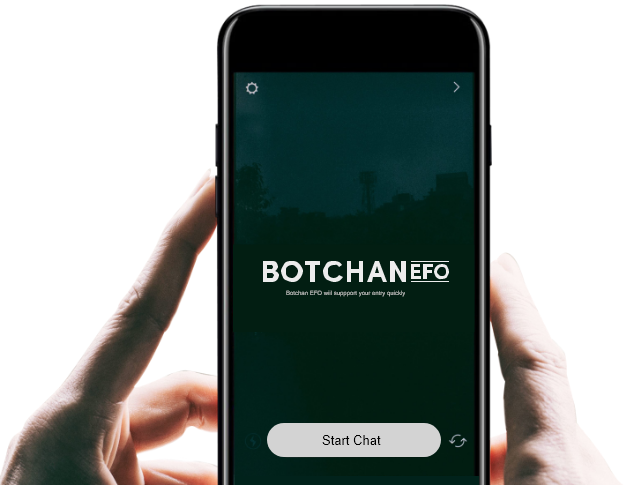
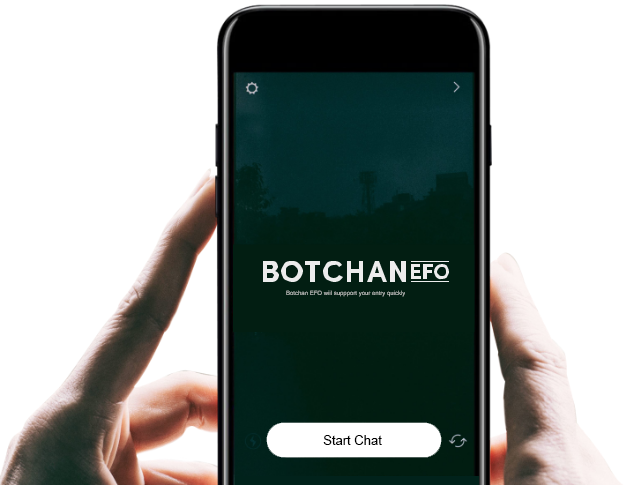
fix

Changed region(s): [[0.4249, 0.866, 0.7284, 0.9588]]

diff --git a/js/custom.js b/js/custom.js
@@ -23,6 +23,24 @@ $(function(){
     $('#header .mobile_demo_box .start_chat_btn').on('click', function () {
         var iframe_chat = '<iframe class="wc-webchat" id="wc-webchat-main" src="' + efo_server + '/efo?connect_page_id=5a38f794059408963e1ce55d"></iframe>';
         $('#header .mobile_demo_box .efo_demo').html(iframe_chat);
+		var windown_w = $(window).width();
+        if(windown_w <= 440) {
+			var mobile_demo_box_w = $('#header .mobile_demo_box #mobile_demo').width();
+			var mobile_demo_box_h = $('#header .mobile_demo_box #mobile_demo').height();		
+			var width_view = 4*0.39*$('#header .mobile_demo_box #mobile_demo').width()/3;				
+			var height_buton = 0.85*mobile_demo_box_h*4/3;
+			var margin_left = 0.36*mobile_demo_box_w;
+			var margin_right = 0.242*mobile_demo_box_w;
+			var margin_top = 0.15*mobile_demo_box_h;
+		
+			$('#wc-webchat-main').css('width',width_view);
+			$('#wc-webchat-main').css('height',height_buton);
+			$('#wc-webchat-main').css('right',2);
+			$('#wc-webchat-main').css('left',2);
+			$('#wc-webchat-main').css('top',margin_top);
+			$('.efo_demo').css('height',mobile_demo_box_h);
+			$('.efo_demo').css('left',margin_left);
+		}
         setTimeout(function () {
             var wc_irame = document.getElementById("wc-webchat-main").contentWindow;
 
@@ -187,10 +205,13 @@ function setSixeDemoBg4() {
             });
             // set interface bg5
             $('.section.bg5 .next img').attr("src", '/images/bg5/arrow_down.png');
-            $('.section.bg5 img.step_img').css("width", '60%');
+            $('.section.bg5 img.step_img').css("width", '60%');		
+			
+		
         } else {
             $('.bg4_item_cotainer .screen_img').attr('style', null);
         }
+		
     }, 300);
 }
 
@@ -213,10 +234,30 @@ function resetHeader() {
     //set magrin top chat demo box
     var windown_w = $(window).width();
     if(windown_w <= 760) {
-        var mobile_demo_box_w = $('#header .mobile_demo_box').width();
-        var header_demo_w = $('#header .header_demo').innerWidth();
-        $('#header .header_demo').css('right', (mobile_demo_box_w - header_demo_w + 45) / 2);
-        $('#header .start_chat_btn').css('right', (header_demo_w - 280 ));
+        
+		//tuan edit
+		if(windown_w<400){
+			var mobile_demo_box_w = $('#header .mobile_demo_box').width();
+			var mobile_demo_box_h = $('#header .mobile_demo_box #mobile_demo').height();
+			var height_buton = 33*$('#header .mobile_demo_box').width()/620;
+			
+			var width_buton = 0.28*mobile_demo_box_w;
+			var margin_bottom = 0.06*mobile_demo_box_h;
+			var left = 0.42*mobile_demo_box_w;
+			$('#header .start_chat_btn').css('left', left);
+			$('#header .start_chat_btn').css('width', width_buton);
+			$('#header .start_chat_btn').css('height', height_buton);
+			$('#header .start_chat_btn').css('padding', 0);
+			$('#header .start_chat_btn').css('bottom', margin_bottom);
+			
+			
+		}else{
+			var mobile_demo_box_w = $('#header .mobile_demo_box').width();
+			var header_demo_w = $('#header .header_demo').innerWidth();
+			$('#header .header_demo').css('right', (mobile_demo_box_w - header_demo_w + 45) / 2);
+			$('#header .start_chat_btn').css('right', (header_demo_w - 280 ));
+		}
+        
     } else {
         $('#header .header_demo').attr('style', null);
         $('#header .start_chat_btn').attr('style', null);

diff --git a/index.php b/index.php
@@ -159,7 +159,7 @@ if(isset($_GET['lang'])) {
 				
 			</div>
 			<div class="service_item service_mobile">
-				<img src="/images/bg3/phone.png" alt="">
+				<img src="/images/bg4/phone.png" alt="" style="max-width:224px;" id="phone4">
 				<div class="efo_demo_mobile"></div>
 			</div>
 		</div>
